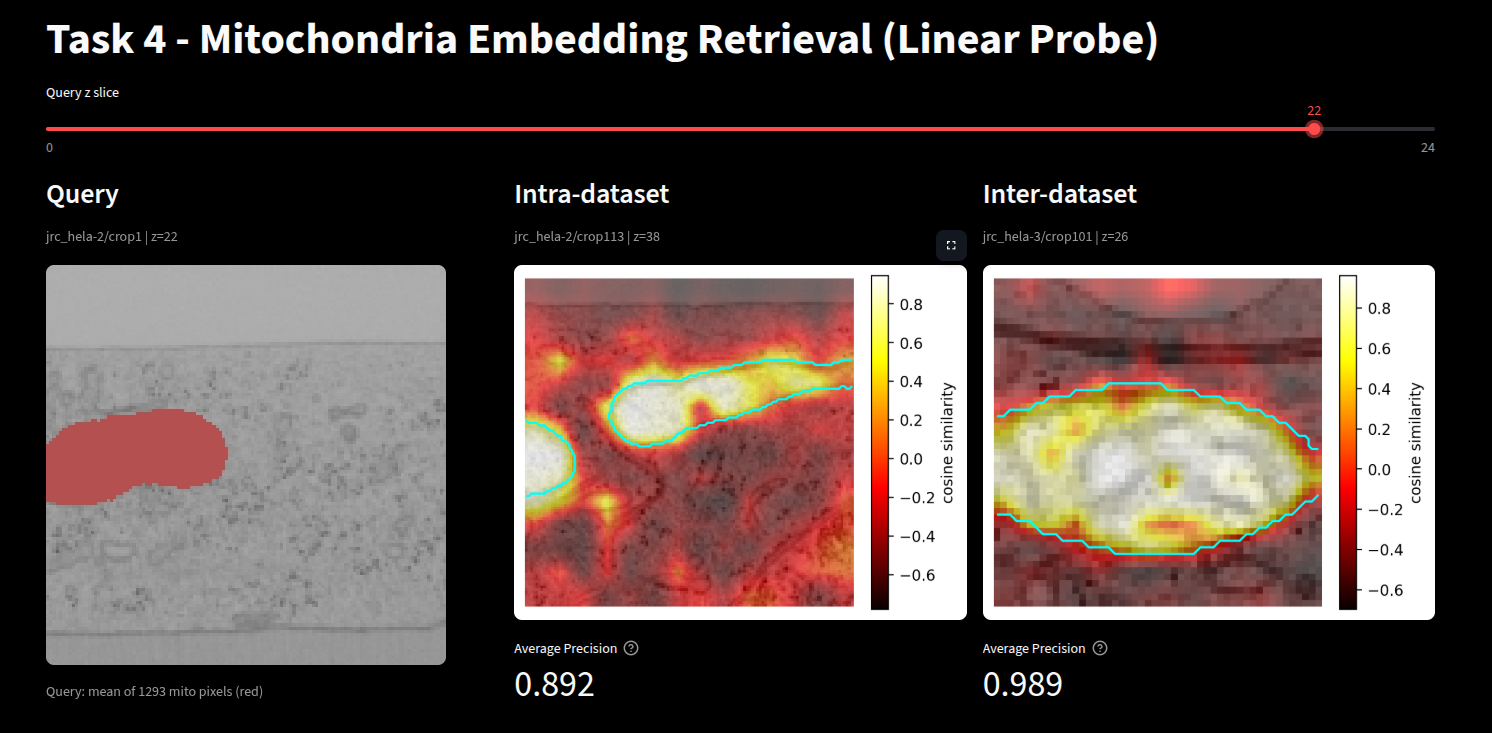
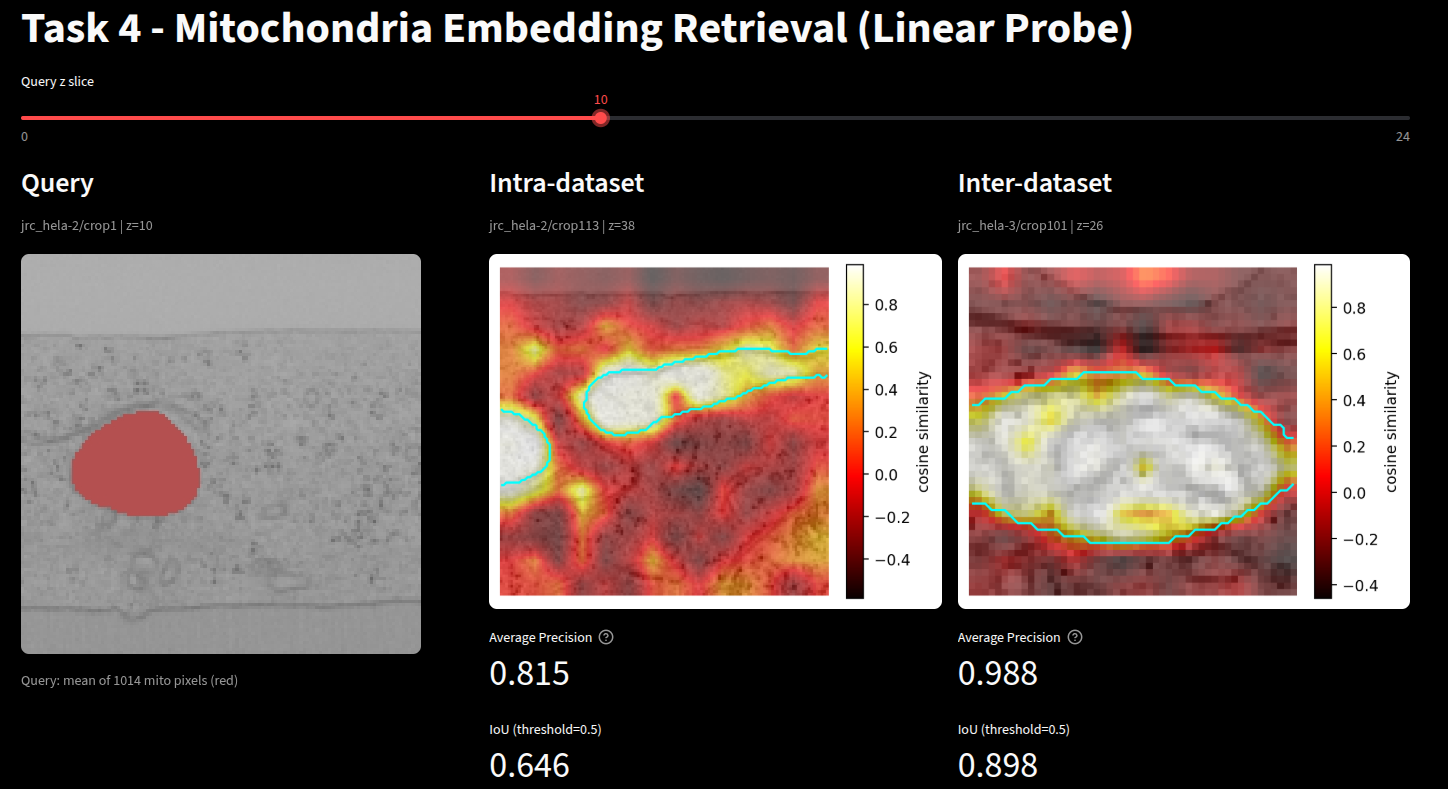
added IoU metrics to dashboard

diff --git a/task2/dashboard.py b/task2/dashboard.py
@@ -202,7 +202,12 @@ with col2:
             ap_intra = average_precision_score(
                 intra_data["mito_mask"].flatten(), sim_intra.flatten()
             )
+            pred_intra = (sim_intra > 0.5).astype(int)
+            intersection = (pred_intra & intra_data["mito_mask"]).sum()
+            union = (pred_intra | intra_data["mito_mask"]).sum()
+            iou_intra = intersection / union if union > 0 else 0.0
             st.metric("Average Precision", f"{ap_intra:.3f}", help="Cyan contour = GT mito mask")
+            st.metric("IoU (threshold=0.5)", f"{iou_intra:.3f}")
         else:
             st.warning("No mito pixels in query slice")
     else:
@@ -226,7 +231,12 @@ with col3:
             ap_inter = average_precision_score(
                 inter_data["mito_mask"].flatten(), sim_inter.flatten()
             )
+            pred_inter = (sim_inter > 0.5).astype(int)
+            intersection = (pred_inter & inter_data["mito_mask"]).sum()
+            union = (pred_inter | inter_data["mito_mask"]).sum()
+            iou_inter = intersection / union if union > 0 else 0.0
             st.metric("Average Precision", f"{ap_inter:.3f}", help="Cyan contour = GT mito mask")
+            st.metric("IoU (threshold=0.5)", f"{iou_inter:.3f}")
         else:
             st.warning("No mito pixels in query slice")
     else:

diff --git a/task2/README.md b/task2/README.md
@@ -107,7 +107,10 @@ The same mean mito query embedding is compared against embeddings from a crop in
 
 Cross-dataset similarity scores show slightly less contrast than intra-dataset due to minor differences in imaging conditions, but mito regions in the target still score visibly higher than background, confirming the embeddings capture organelle-level semantics without any domain-specific training.
 
-Query mitochondrion with red mask (left), cosine similarity heat map on same-dataset crop (centre) and cross-dataset crop (right). Cyan contour = ground-truth mito mask boundary. Average Precision (AP) is shown below each target — it measures how well the similarity ranking recovers mito pixels: pixels are ranked by cosine similarity, and AP is the area under the precision-recall curve against the binary mito mask. AP = 1.0 means all mito pixels ranked above all background pixels.
+Query mitochondrion with red mask (left), cosine similarity heat map on same-dataset crop (centre) and cross-dataset crop (right). Cyan contour = ground-truth mito mask boundary. Two metrics are shown below each target, both computed over the full 3D volume (all z-slices):
+
+- **Average Precision (AP)** — area under the precision-recall curve against the binary mito mask. Measures how well the similarity ranking recovers mito pixels. AP = 1.0 means all mito pixels ranked above all background pixels.
+- **IoU (threshold=0.5)** — similarity map thresholded at 0.5, then intersection-over-union against GT mito mask. Measures boundary precision — how well the predicted region overlaps the actual mito region.
 
 ![Task 3 intra and inter dataset retrieval](screenshots/task3_intra_inter_embeddings.png)
 
@@ -140,7 +143,14 @@ Train a linear projection head (1024 -> 256) plus a binary segmentation head (25
 
 DINOv3's self-supervised pretraining produces embeddings that already separate visually distinct regions. Mitochondria have a consistent appearance in EM that differs from surrounding structures, so a linear probe can learn to separate them with very few trainable parameters and minimal risk of overfitting.
 
-Cosine similarity retrieval using projected 256-dim embeddings from the trained linear probe (toggle "Use projected embeddings" in the dashboard sidebar). Cyan contour = ground-truth mito mask boundary. AP scores show a marked improvement over raw DINOv3 embeddings — the linear projection learns to amplify mito-specific directions in embedding space, pushing mito pixels to the top of the similarity ranking.
+Cosine similarity retrieval using projected 256-dim embeddings from the trained linear probe (toggle "Use projected embeddings" in the dashboard sidebar). Cyan contour = ground-truth mito mask boundary. AP and IoU (threshold=0.5) are shown below each target, both computed over the full 3D volume. The linear projection learns to amplify mito-specific directions in embedding space, pushing mito pixels to the top of the similarity ranking and sharpening boundary precision.
+
+| | AP | IoU (threshold=0.5) |
+|---|---|---|
+| Raw DINOv3 intra-dataset | 0.181 | 0.069 |
+| Raw DINOv3 inter-dataset | 0.606 | 0.212 |
+| Linear probe intra-dataset | 0.815 | 0.646 |
+| Linear probe inter-dataset | 0.988 | 0.898 |
 
 ![Task 4 linear probe retrieval](screenshots/task4_linear_probe.png)
 
